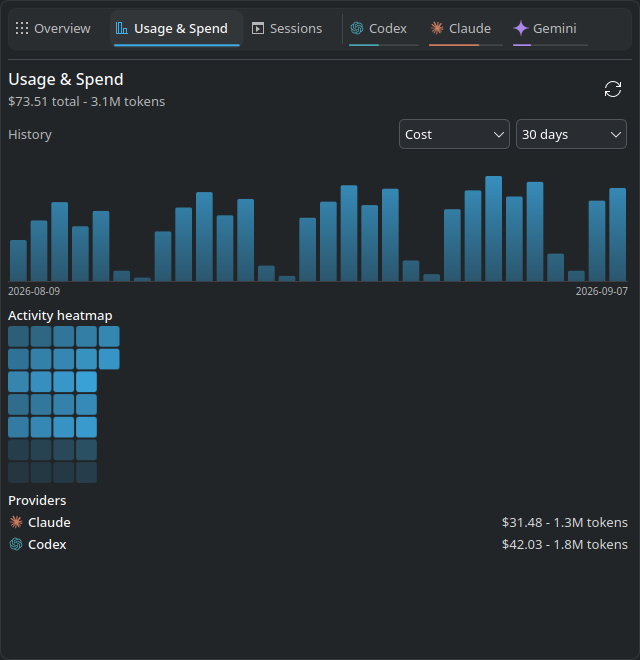
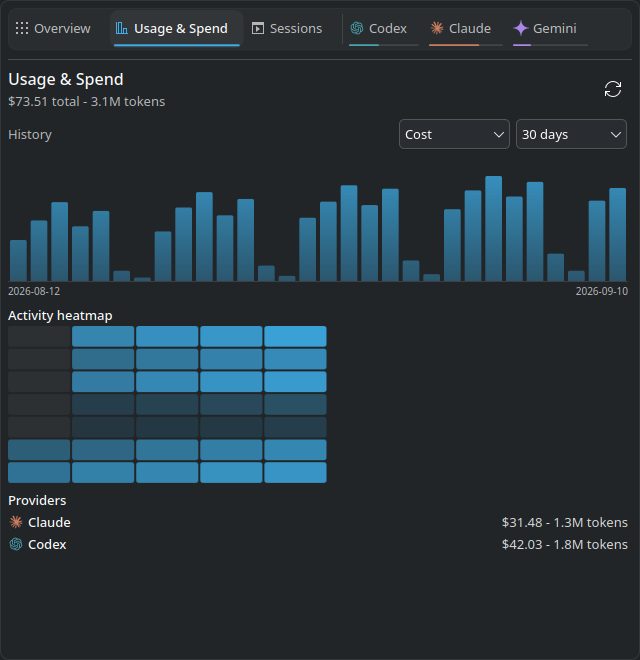
fix(spend): lay the activity heatmap out as a complete block (#208)
The Usage & Spend heatmap sized its cells as squares capped at 1.15 grid
units and took one column per week of the selected range, so the default
30-day range drew a 108-pixel patch stranded beside an empty half of the
tab, a partial final week cut a week-wide notch out of it, and the 7-day
range collapsed into a single stack of squares that repeated the chart
above it one day per row.

Cells now stretch into the width a short range leaves unused, bounded at
three times their own height so they keep reading as heatmap cells rather
than bars competing with the chart. The grid is padded at the oldest end
through the shared CostPresentation.spendHeatmapCells layout, so the block
stays a full rectangle; padded slots render as faint no-data cells and stay
out of hover, the readout, and the reading order. Ranges that fill a single
week column hide the heatmap entirely.

Cell height keeps its existing cap, so the section's hierarchy is unchanged:
the daily chart still outranks the heatmap.

Documentation: usage guide heatmap description, changelog Unreleased, and
the regenerated Usage & Spend README screenshot.

Changed region(s): [[0.0, 0.4848, 0.5312, 0.7576], [0.9688, 0.4242, 1.0, 0.4545], [0.0625, 0.4242, 0.0938, 0.4545]]

diff --git a/contents/ui/components/SpendView.qml b/contents/ui/components/SpendView.qml
@@ -274,7 +274,9 @@ ColumnLayout {
             }
 
             ColumnLayout {
-                visible: view.dailyPoints.length > 0
+                // One week column carries a single day per row, which repeats
+                // the chart above instead of showing a weekday pattern.
+                visible: view.dailyPoints.length > 7
                 Layout.fillWidth: true
                 spacing: Kirigami.Units.smallSpacing / 2
 
@@ -290,7 +292,7 @@ ColumnLayout {
                 // width so the cells stay large enough to hover.
                 Item {
                     Layout.fillWidth: true
-                    Layout.preferredHeight: 7 * heatmapGrid.cellSize
+                    Layout.preferredHeight: 7 * heatmapGrid.cellHeight
                         + 6 * heatmapGrid.rowSpacing
                     clip: true
 
@@ -306,11 +308,17 @@ ColumnLayout {
                             (width + cellSpacing) / (minimumCellSize + cellSpacing)))
                         readonly property int columnCount: Math.max(1, Math.min(
                             fittingColumns, Math.ceil(view.dailyPoints.length / 7)))
-                        readonly property real cellSize: Math.max(minimumCellSize, Math.min(
-                            maximumCellSize,
-                            (width - cellSpacing * (columnCount - 1)) / columnCount))
-                        readonly property var cells: view.dailyPoints.slice(
-                            Math.max(0, view.dailyPoints.length - columnCount * 7))
+                        readonly property real availableCellWidth: Math.max(minimumCellSize,
+                            (width - cellSpacing * (columnCount - 1)) / columnCount)
+                        readonly property real cellHeight: Math.max(minimumCellSize, Math.min(
+                            maximumCellSize, availableCellWidth))
+                        // Cells stretch into the width a short range leaves
+                        // unused, bounded so they keep reading as heatmap cells
+                        // rather than bars competing with the chart above.
+                        readonly property real cellWidth: Math.min(
+                            availableCellWidth, cellHeight * 3)
+                        readonly property var cells: CostPresentation.spendHeatmapCells(
+                            view.dailyPoints, columnCount * 7)
 
                         width: parent.width
                         rows: 7
@@ -322,22 +330,32 @@ ColumnLayout {
                             model: heatmapGrid.cells
 
                             delegate: Rectangle {
+                                id: heatmapCell
+
                                 required property var modelData
 
-                                readonly property real fraction: view.heatmapMaximum > 0
-                                    ? Math.max(0, Math.min(1, Number(modelData.value) / view.heatmapMaximum))
+                                // Padding slots carry no day: they fill the
+                                // oldest corner of the block and stay out of
+                                // hover, the readout, and the reading order.
+                                readonly property bool measured: !!heatmapCell.modelData
+                                readonly property real fraction: heatmapCell.measured && view.heatmapMaximum > 0
+                                    ? Math.max(0, Math.min(1,
+                                        Number(heatmapCell.modelData.value) / view.heatmapMaximum))
                                     : 0
 
                                 Accessible.role: Accessible.Graphic
-                                Accessible.name: modelData.label
-                                Accessible.description: modelData.displayValue
+                                Accessible.ignored: !heatmapCell.measured
+                                Accessible.name: heatmapCell.measured ? heatmapCell.modelData.label : ""
+                                Accessible.description: heatmapCell.measured ? heatmapCell.modelData.displayValue : ""
 
-                                width: heatmapGrid.cellSize
-                                height: heatmapGrid.cellSize
+                                width: heatmapGrid.cellWidth
+                                height: heatmapGrid.cellHeight
                                 radius: Kirigami.Units.cornerRadius / 2
-                                color: view.applet.withAlpha(
-                                    Kirigami.Theme.highlightColor,
-                                    0.1 + fraction * 0.8)
+                                color: heatmapCell.measured
+                                    ? view.applet.withAlpha(
+                                        Kirigami.Theme.highlightColor,
+                                        0.1 + heatmapCell.fraction * 0.8)
+                                    : view.applet.withAlpha(Kirigami.Theme.textColor, 0.05)
 
                                 // The cell carries no border of its own and the
                                 // hover outline is a separate overlay. Fading a
@@ -358,6 +376,7 @@ ColumnLayout {
                                     border.width: 1
                                     border.color: view.applet.withAlpha(
                                         Kirigami.Theme.textColor, 0.4)
+                                    visible: heatmapCell.measured
                                     opacity: heatmapMouse.containsMouse ? 1 : 0
 
                                     Behavior on opacity {
@@ -372,8 +391,11 @@ ColumnLayout {
                                     // not a label for a control: scanning the
                                     // grid must not wait out a hover delay.
                                     delay: 0
-                                    visible: heatmapMouse.containsMouse
-                                    plainText: i18n("%1: %2", modelData.label, modelData.displayValue)
+                                    visible: heatmapMouse.containsMouse && heatmapCell.measured
+                                    plainText: heatmapCell.measured
+                                        ? i18n("%1: %2", heatmapCell.modelData.label,
+                                            heatmapCell.modelData.displayValue)
+                                        : ""
                                 }
 
                                 MouseArea {

diff --git a/tests/tst_cost_presentation.qml b/tests/tst_cost_presentation.qml
@@ -696,6 +696,39 @@ TestCase {
         compare(points[0].displayValue, "$2.00")
     }
 
+    function test_spendHeatmapCellsPadTheOldestCornerAndKeepTheNewestDayLast() {
+        var points = []
+        for (var day = 0; day < 30; day++) {
+            points.push({ label: "day-" + day, value: day, displayValue: "" })
+        }
+
+        var cells = CostPresentation.spendHeatmapCells(points, 35)
+        compare(cells.length, 35)
+        for (var padded = 0; padded < 5; padded++) {
+            compare(cells[padded], null)
+        }
+        compare(cells[5].label, "day-0")
+        compare(cells[34].label, "day-29")
+    }
+
+    function test_spendHeatmapCellsDropTheOldestDaysBeyondCapacity() {
+        var cells = CostPresentation.spendHeatmapCells([
+            { label: "a" }, { label: "b" }, { label: "c" }
+        ], 2)
+        compare(cells.length, 2)
+        compare(cells[0].label, "b")
+        compare(cells[1].label, "c")
+    }
+
+    function test_spendHeatmapCellsSurviveMissingAndNonsenseInput() {
+        compare(CostPresentation.spendHeatmapCells(undefined, 7).length, 7)
+        compare(CostPresentation.spendHeatmapCells("not an array", 2)[0], null)
+        compare(CostPresentation.spendHeatmapCells([{ label: "a" }], 0).length, 0)
+        compare(CostPresentation.spendHeatmapCells([{ label: "a" }], -4).length, 0)
+        compare(CostPresentation.spendHeatmapCells([{ label: "a" }], NaN).length, 0)
+        compare(CostPresentation.spendHeatmapCells([{ label: "a" }], 2.7).length, 2)
+    }
+
     function test_spendTotalsKeepAllCurrencyFreeTokens() {
         var totals = CostPresentation.spendTotals([
             { totals: { cost: 2, tokens: 100, currency: "USD" } },

diff --git a/contents/ui/CostPresentation.js b/contents/ui/CostPresentation.js
@@ -1082,3 +1082,19 @@ function historyStillBuilding(costs) {
     }
     return false
 }
+
+// Lays the daily points out for the activity heatmap's fixed seven rows. The
+// newest day keeps the last slot, so every row stays one weekday, and the grid
+// is padded at the oldest end with `null` placeholders: a ragged final column
+// otherwise cuts a week-wide notch out of the block. Points beyond the
+// capacity are dropped, oldest first.
+function spendHeatmapCells(points, capacity) {
+    var items = Array.isArray(points) ? points : []
+    var slots = Math.max(0, Math.floor(Number(capacity) || 0))
+    var visible = items.slice(Math.max(0, items.length - slots))
+    var cells = []
+    for (var i = visible.length; i < slots; i++) {
+        cells.push(null)
+    }
+    return cells.concat(visible)
+}

diff --git a/CHANGELOG.md b/CHANGELOG.md
@@ -107,6 +107,12 @@ For earlier versions, see [GitHub Releases](https://github.com/Lucenx9/codexbar-
 - Narrow the panel tooltip to the hovered provider meter, so hovering one
   panel icon reports only that provider's quotas instead of the whole roster.
   The full list remains when hovering elsewhere.
+- Lay the Usage & Spend activity heatmap out as a complete block instead of a
+  small patch of squares stranded beside an empty half of the tab. Its cells
+  now stretch into the width a short range leaves unused, the grid is padded so
+  a partial final week no longer cuts a week-wide notch out of it, and ranges
+  that fill a single week column hide the heatmap, which repeated the chart
+  above it one day per row.
 
 ## 0.2.36 - 2026-09-09
 

diff --git a/docs/usage.md b/docs/usage.md
@@ -69,7 +69,8 @@ work and upstream contract requirements.
   focus reveal, so navigation never covers provider labels.
 - Global **Usage & Spend** tab with a Cost/Tokens selector, a 7/30/90-day range
   selector, interactive daily chart, activity heatmap, and provider totals that
-  keep different currencies separate.
+  keep different currencies separate. The heatmap groups the range into weekday
+  rows and week columns, and stays hidden for ranges that fill a single column.
 - Local **Sessions** tab backed by `sessions --json-v2`; transcript paths and
   working directories are never rendered or opened. The tab refreshes stale
   session data while it remains visible.
